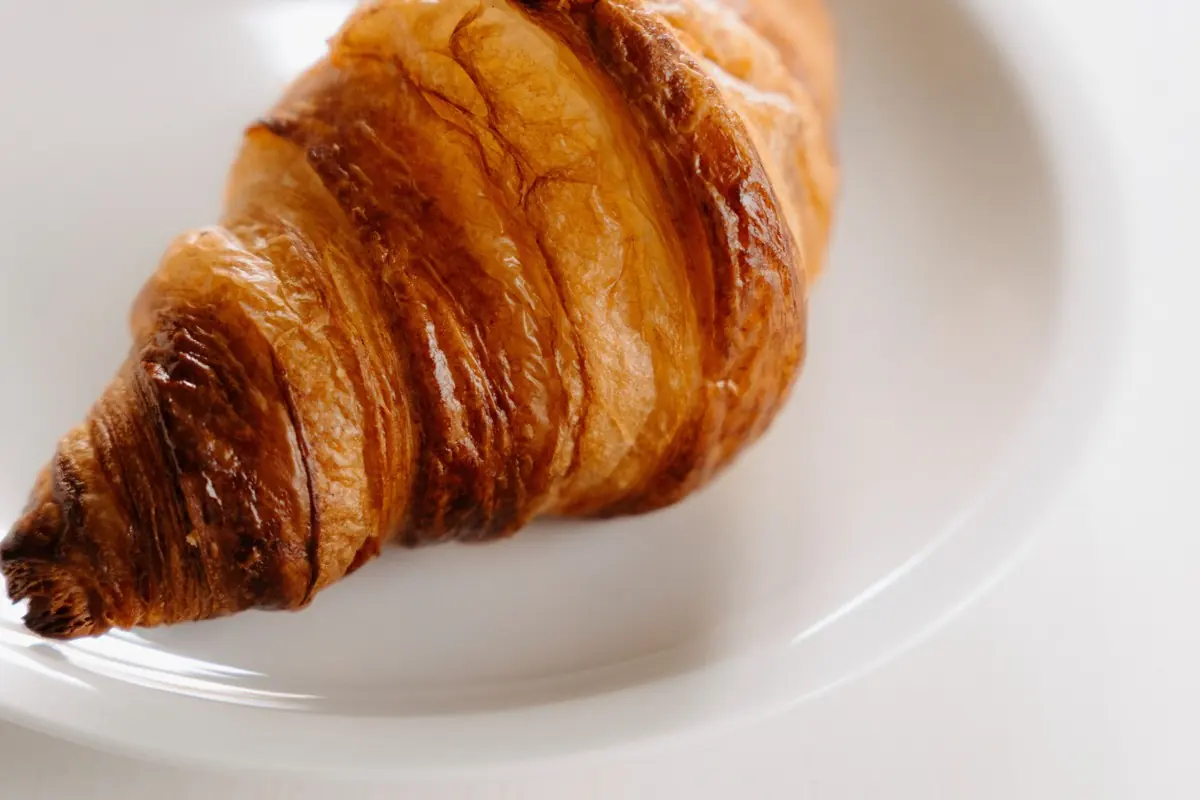
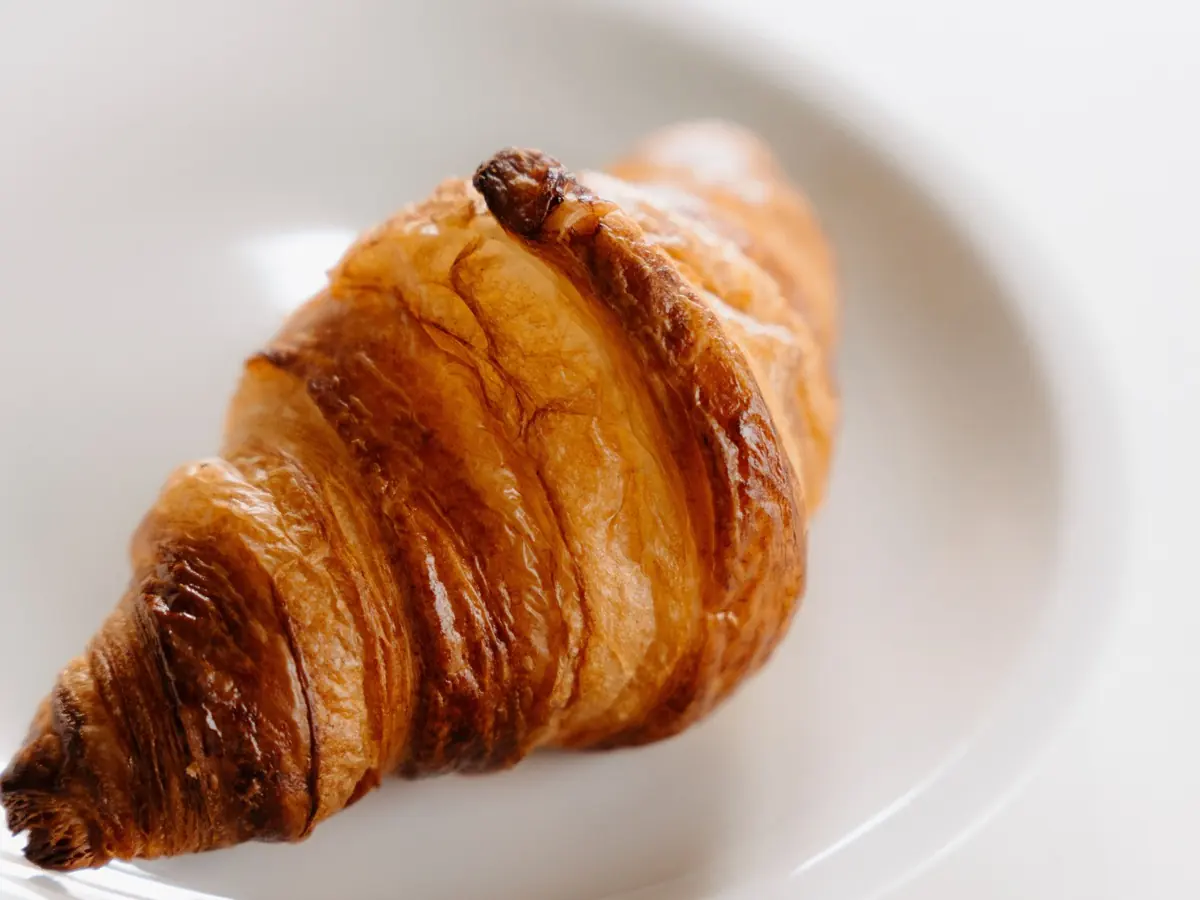
Recrop the cinnamon and croissant photos and correct the muffin alt text.
No plain cornmeal English muffin photo was available, so the sandwich picture stays and the alt text names the egg, bacon, and cheese. The cinnamon crop shows the whole front swirl, and the croissant crop keeps the top in frame.

diff --git a/dist/en/croissants-bakers-percentage/index.html b/dist/en/croissants-bakers-percentage/index.html
@@ -68,7 +68,7 @@
 <p>The calculator opens at 500 g flour, 52% hydration, 2% salt, and 1% yeast. The balls fields open at 8 pieces of about 97 g. That weight is this dough, before the butter. Roll in a 250 g butter block, about half the flour weight. Brush with 1 beaten egg. The butter and the egg are extra and are not in the gram total. These times assume you only change the flour amount and keep the percentages the same. Still judge the dough by how it looks and feels.</p>
 <ol><li><strong>Mix</strong> Stir the flour, water, salt, and yeast, then knead for about 4 minutes until smooth. At 52% the dough is firm. Keep it cool, about 20°C (68°F).</li><li><strong>Chill</strong> Wrap the dough and chill it for 45 minutes. It should be cold but still bend without cracking.</li><li><strong>Butter</strong> Pound 250 g of butter into a square about 15 cm across, cool but pliable, about 15°C (59°F). Roll the dough, lock the butter in the center, and seal the edges. The butter is extra and is not in the gram total.</li><li><strong>Folds</strong> Roll it to a long rectangle and fold it in three. Chill 25 minutes. Repeat that letter fold two more times, with 25 minutes in the fridge between folds.</li><li><strong>Shape</strong> Roll the dough to about 4 mm thick. Cut eight triangles and roll each one into a crescent, with the tip tucked under. Each piece of the original dough was about 97 g before the butter went in.</li><li><strong>Proof</strong> Cover them at about 24°C (75°F) for 2 to 2.5 hours, until they jiggle and the layers look swollen. Brush with 1 beaten egg. The egg is extra.</li><li><strong>Bake</strong> Heat the oven to 200°C (390°F). Bake 16 to 20 minutes, until they are deep gold and the layers have set.</li><li><strong>Cool</strong> Move them to a rack for at least 20 minutes. The inside is still soft right out of the oven.</li></ol>
 <figure>
-<img src="/assets/croissant.webp" width="1200" height="800" alt="One glossy laminated croissant on a white plate." loading="lazy">
+<img src="/assets/croissant.webp" width="1200" height="900" alt="One glossy laminated croissant on a white plate." loading="lazy">
 <figcaption>Photo by Mathias Reding on <a href="https://www.pexels.com/photo/golden-croissant-on-white-plate-minimalist-food-photography-30110688/">Pexels</a></figcaption>
 </figure>
 </section>

diff --git a/dist/zh-cn/kesong/index.html b/dist/zh-cn/kesong/index.html
@@ -68,7 +68,7 @@
 <p>计算器打开时是面粉 500 克，水合 52%，盐 2%，酵母 1%。面团球那一栏打开是 8 个、每个大约 97 克。这个重量只算面团，还没算黄油。再卷进 250 克黄油块，大约是面粉重量的一半。表面刷 1 个打散的鸡蛋。黄油和鸡蛋是另外加的，不在合计克数里。下面的时间按只改面粉的量、百分比不变来估。发酵还是看面团的样子和手感。</p>
 <ol><li><strong>搅拌</strong> 把面粉、水、盐和酵母拌匀，再揉大约 4 分钟，直到光滑。水合 52%，面团偏硬。保持凉快，大约 20°C。</li><li><strong>冷藏</strong> 包好，冷藏 45 分钟。要凉，但压一压不会裂开。</li><li><strong>包黄油</strong> 250 克黄油压成大约 15 厘米的方片，凉，但压下去不会裂，大约 15°C。把面团擀开，黄油包在中间，捏住边。黄油是另外加的，不在合计克数里。</li><li><strong>折叠</strong> 擀成长方形，折成三折。冷藏 25 分钟。再这样三折两次，每次中间冷藏 25 分钟。</li><li><strong>整形</strong> 擀到大约 0.4 厘米厚。切成八个三角形，卷成可颂，接口压在下面。包黄油之前，每份面团大约 97 克。</li><li><strong>最后发酵</strong> 盖着，放在大约 24°C，2 到 2.5 小时，发到晃一晃会颤、层次鼓起来。刷 1 个打散的鸡蛋。鸡蛋是另外加的。</li><li><strong>烘烤</strong> 烤箱 200°C，烤 16 到 20 分钟，直到深金黄、层次定住。</li><li><strong>放凉</strong> 移到架子上至少 20 分钟。出炉的时候里面还是软的。</li></ol>
 <figure>
-<img src="/assets/croissant.webp" width="1200" height="800" alt="一个油亮的可颂，能看见层次，放在白色盘子上。" loading="lazy">
+<img src="/assets/croissant.webp" width="1200" height="900" alt="一个油亮的可颂，能看见层次，放在白色盘子上。" loading="lazy">
 <figcaption>摄影：Mathias Reding，来自 <a href="https://www.pexels.com/photo/golden-croissant-on-white-plate-minimalist-food-photography-30110688/">Pexels</a></figcaption>
 </figure>
 </section>

diff --git a/dist/zh-tw/kesong/index.html b/dist/zh-tw/kesong/index.html
@@ -68,7 +68,7 @@
 <p>計算器打開時是麵粉 500 克，水合 52%，鹽 2%，酵母 1%。麵團球那一欄打開是 8 個、每個大約 97 克。這個重量只算麵團，還沒算奶油。再捲進 250 克奶油塊，大約是麵粉重量的一半。表面刷 1 個打散的雞蛋。奶油和雞蛋是另外加的，不在合計克數裡。下面的時間按只改麵粉的量、百分比不變來估。發酵還是看麵團的樣子和手感。</p>
 <ol><li><strong>攪拌</strong> 把麵粉、水、鹽和酵母拌勻，再揉大約 4 分鐘，直到光滑。水合 52%，麵團偏硬。保持涼快，大約 20°C。</li><li><strong>冷藏</strong> 包好，冷藏 45 分鐘。要涼，但壓一壓不會裂開。</li><li><strong>包奶油</strong> 250 克奶油壓成大約 15 公分的方片，涼，但壓下去不會裂，大約 15°C。把麵團擀開，奶油包在中間，捏住邊。奶油是另外加的，不在合計克數裡。</li><li><strong>摺疊</strong> 擀成長方形，折成三折。冷藏 25 分鐘。再這樣三折兩次，每次中間冷藏 25 分鐘。</li><li><strong>整形</strong> 擀到大約 0.4 公分厚。切成八個三角形，捲成可頌，接口壓在下面。包奶油之前，每份麵團大約 97 克。</li><li><strong>最後發酵</strong> 蓋著，放在大約 24°C，2 到 2.5 小時，發到晃一晃會顫、層次鼓起來。刷 1 個打散的雞蛋。雞蛋是另外加的。</li><li><strong>烘烤</strong> 烤箱 200°C，烤 16 到 20 分鐘，直到深金黃、層次定住。</li><li><strong>放涼</strong> 移到架子上至少 20 分鐘。出爐的時候裡面還是軟的。</li></ol>
 <figure>
-<img src="/assets/croissant.webp" width="1200" height="800" alt="一個油亮的可頌，能看見層次，放在白色盤子上。" loading="lazy">
+<img src="/assets/croissant.webp" width="1200" height="900" alt="一個油亮的可頌，能看見層次，放在白色盤子上。" loading="lazy">
 <figcaption>攝影：Mathias Reding，來自 <a href="https://www.pexels.com/photo/golden-croissant-on-white-plate-minimalist-food-photography-30110688/">Pexels</a></figcaption>
 </figure>
 </section>

diff --git a/dist/en/english-muffins-bakers-percentage/index.html b/dist/en/english-muffins-bakers-percentage/index.html
@@ -68,7 +68,7 @@
 <p>The calculator opens at 400 g flour, 62% hydration, 1.5% salt, and 0.7% yeast. The balls fields open at 8 muffins of about 82 g each. Dust them and the pan with about 20 g of cornmeal. The cornmeal is extra and is not in the gram total. These times assume you only change the flour amount and keep the percentages the same. Still judge the dough by how it looks and feels.</p>
 <ol><li><strong>Mix</strong> Stir the flour, water, salt, and yeast, then knead for 6 to 8 minutes until smooth. At 62% it is soft but not sticky. Aim for about 24°C (75°F).</li><li><strong>Bulk</strong> Cover the bowl at about 24°C (75°F) for 75 to 100 minutes. Yeast is only 0.7%, so wait until it has nearly doubled.</li><li><strong>Divide</strong> Cut eight pieces of about 82 g. Round each one and rest them, covered, for 10 minutes.</li><li><strong>Flatten</strong> Press each round to about 9 cm across and about 2 cm thick. Dust both sides with cornmeal. Use about 20 g for the batch. That cornmeal is extra.</li><li><strong>Proof</strong> Set them on a cornmeal-dusted tray. Cover them at about 24°C (75°F) for 20 to 30 minutes, until they look puffy.</li><li><strong>Griddle</strong> Heat a covered pan over medium heat, about 170°C (340°F) if the pan shows a temperature. Cook 6 to 8 minutes per side with the lid on, until the sides are set and both faces are browned in spots.</li><li><strong>Cool</strong> Move them to a rack. Split them with a fork once they are cool if you want the rough inside.</li></ol>
 <figure>
-<img src="/assets/english-muffins.webp" width="1200" height="900" alt="A round, flat English muffin dusted with cornmeal, split, with both halves in the frame." loading="lazy">
+<img src="/assets/english-muffins.webp" width="1200" height="900" alt="An English muffin dusted with cornmeal, split and filled with egg, bacon and cheese, on a wooden tray." loading="lazy">
 <figcaption>Photo by Su La Pyae on <a href="https://www.pexels.com/photo/english-muffin-on-cutting-board-19471374/">Pexels</a></figcaption>
 </figure>
 </section>

diff --git a/dist/en/cinnamon-roll-dough-bakers-percentage/index.html b/dist/en/cinnamon-roll-dough-bakers-percentage/index.html
@@ -68,7 +68,7 @@
 <p>The calculator opens at 500 g flour, 58% hydration, 1.6% salt, and 1.4% yeast. The balls fields open at 8 rolls of about 101 g each. The filling is about 50 g soft butter, 80 g sugar, and 8 g cinnamon. That filling is extra and is not in the gram total. These times assume you only change the flour amount and keep the percentages the same. Still judge the dough by how it looks and feels.</p>
 <ol><li><strong>Mix</strong> Stir the flour, water, salt, and yeast, then knead for about 8 minutes until smooth. At 58% it is soft. Aim for about 24°C (75°F).</li><li><strong>Bulk</strong> Cover the bowl at about 24°C (75°F) for 70 to 90 minutes. With 1.4% yeast it should nearly double.</li><li><strong>Fill</strong> Roll the dough to a rectangle about 30 by 40 cm. Spread 50 g soft butter, then 80 g sugar mixed with 8 g cinnamon. Those amounts are extra.</li><li><strong>Cut</strong> Roll the sheet up from a long side and pinch the seam. Cut eight pieces of about 101 g. Set them cut side up in a buttered pan, with a small gap between them.</li><li><strong>Proof</strong> Cover the pan at about 24°C (75°F) for 35 to 50 minutes, until the rolls are puffy and touching.</li><li><strong>Bake</strong> Heat the oven to 180°C (355°F). Bake 22 to 26 minutes, until the tops are golden, the sugar on the filling has browned, and the centers are set.</li><li><strong>Cool</strong> Leave them in the pan for about 15 minutes, then lift them out.</li></ol>
 <figure>
-<img src="/assets/cinnamon-rolls.webp" width="1200" height="926" alt="Cinnamon rolls baked close together, with the swirl and cinnamon sugar showing on top." loading="lazy">
+<img src="/assets/cinnamon-rolls.webp" width="1200" height="1060" alt="Cinnamon rolls on parchment, the front one showing the full swirl and cinnamon sugar." loading="lazy">
 <figcaption>Photo by Danique Veldhuis on <a href="https://www.pexels.com/photo/delicious-cinnamon-rolls-20449473/">Pexels</a></figcaption>
 </figure>
 </section>

diff --git a/dist/zh-cn/yingshi-mafen/index.html b/dist/zh-cn/yingshi-mafen/index.html
@@ -68,7 +68,7 @@
 <p>计算器打开时是面粉 400 克，水合 62%，盐 1.5%，酵母 0.7%。面团球那一栏打开是 8 个、每个大约 82 克。饼和锅上撒大约 20 克玉米粉。玉米粉是另外加的，不在合计克数里。下面的时间按只改面粉的量、百分比不变来估。发酵还是看面团的样子和手感。</p>
 <ol><li><strong>搅拌</strong> 把面粉、水、盐和酵母拌匀，再揉 6 到 8 分钟，直到光滑。水合 62%，柔软但不黏手。面团温度大约 24°C。</li><li><strong>基本发酵</strong> 盖着，放在大约 24°C，75 到 100 分钟。酵母只有 0.7%，等到差不多发到两倍。</li><li><strong>分割</strong> 分成八份，每份大约 82 克。收圆，盖上放 10 分钟。</li><li><strong>压平</strong> 每个压到大约 9 厘米宽、大约 2 厘米厚。两面都撒玉米粉。这一批大约用 20 克。这些玉米粉是另外加的。</li><li><strong>最后发酵</strong> 放在撒了玉米粉的盘子上。盖着，大约 24°C，20 到 30 分钟，发到蓬松。</li><li><strong>平底锅</strong> 盖上盖，用中等热度的平底锅，大约 170°C。每面加热 6 到 8 分钟，直到侧面定住、两面都上了色。</li><li><strong>放凉</strong> 移到架子上。凉了以后想看里面，就从侧面切开。</li></ol>
 <figure>
-<img src="/assets/english-muffins.webp" width="1200" height="900" alt="一个圆而扁的英式马芬，表面有玉米粉，上下两半都在画面里。" loading="lazy">
+<img src="/assets/english-muffins.webp" width="1200" height="900" alt="一个英式马芬，表面有玉米粉，切开，里面是蛋、培根和奶酪，放在木盘上。" loading="lazy">
 <figcaption>摄影：Su La Pyae，来自 <a href="https://www.pexels.com/photo/english-muffin-on-cutting-board-19471374/">Pexels</a></figcaption>
 </figure>
 </section>

diff --git a/dist/zh-tw/yingshi-mafen/index.html b/dist/zh-tw/yingshi-mafen/index.html
@@ -68,7 +68,7 @@
 <p>計算器打開時是麵粉 400 克，水合 62%，鹽 1.5%，酵母 0.7%。麵團球那一欄打開是 8 個、每個大約 82 克。餅和鍋上撒大約 20 克玉米粉。玉米粉是另外加的，不在合計克數裡。下面的時間按只改麵粉的量、百分比不變來估。發酵還是看麵團的樣子和手感。</p>
 <ol><li><strong>攪拌</strong> 把麵粉、水、鹽和酵母拌勻，再揉 6 到 8 分鐘，直到光滑。水合 62%，柔軟但不黏手。麵團溫度大約 24°C。</li><li><strong>基本發酵</strong> 蓋著，放在大約 24°C，75 到 100 分鐘。酵母只有 0.7%，等到差不多發到兩倍。</li><li><strong>分割</strong> 分成八份，每份大約 82 克。收圓，蓋上放 10 分鐘。</li><li><strong>壓平</strong> 每個壓到大約 9 公分寬、大約 2 公分厚。兩面都撒玉米粉。這一批大約用 20 克。這些玉米粉是另外加的。</li><li><strong>最後發酵</strong> 放在撒了玉米粉的盤子上。蓋著，大約 24°C，20 到 30 分鐘，發到蓬鬆。</li><li><strong>平底鍋</strong> 蓋上蓋，用中等熱度的平底鍋，大約 170°C。每面加熱 6 到 8 分鐘，直到側面定住、兩面都上了色。</li><li><strong>放涼</strong> 移到架子上。涼了以後想看裡面，就從側面切開。</li></ol>
 <figure>
-<img src="/assets/english-muffins.webp" width="1200" height="900" alt="一個圓而扁的英式瑪芬，表面有玉米粉，上下兩半都在畫面裡。" loading="lazy">
+<img src="/assets/english-muffins.webp" width="1200" height="900" alt="一個英式瑪芬，表面有玉米粉，切開，裡面是蛋、培根和乳酪，放在木盤上。" loading="lazy">
 <figcaption>攝影：Su La Pyae，來自 <a href="https://www.pexels.com/photo/english-muffin-on-cutting-board-19471374/">Pexels</a></figcaption>
 </figure>
 </section>

diff --git a/dist/zh-cn/rougui-juan/index.html b/dist/zh-cn/rougui-juan/index.html
@@ -68,7 +68,7 @@
 <p>计算器打开时是面粉 500 克，水合 58%，盐 1.6%，酵母 1.4%。面团球那一栏打开是 8 个、每个大约 101 克。馅大约是 50 克软黄油、80 克糖、8 克肉桂。馅是另外加的，不在合计克数里。下面的时间按只改面粉的量、百分比不变来估。发酵还是看面团的样子和手感。</p>
 <ol><li><strong>搅拌</strong> 把面粉、水、盐和酵母拌匀，再揉大约 8 分钟，直到光滑。水合 58%，面团柔软。面团温度大约 24°C。</li><li><strong>基本发酵</strong> 盖着，放在大约 24°C，70 到 90 分钟。酵母有 1.4%，差不多发到两倍。</li><li><strong>铺馅</strong> 擀成大约 40 厘米长、30 厘米宽的长方形。抹上 50 克软黄油，再撒 80 克糖和 8 克肉桂拌好的粉。这些重量是另外加的。</li><li><strong>切块</strong> 从长边卷紧，捏住接缝。切成八份，每份大约 101 克。切面朝上，放进抹了黄油的烤盘，中间留一条小缝。</li><li><strong>最后发酵</strong> 盖着，放在大约 24°C，35 到 50 分钟，发到蓬松、彼此碰上。</li><li><strong>烘烤</strong> 烤箱 180°C，烤 22 到 26 分钟，直到顶上金黄、馅上的糖上色、中间定住。</li><li><strong>放凉</strong> 在盘里停大约 15 分钟，再取出来。</li></ol>
 <figure>
-<img src="/assets/cinnamon-rolls.webp" width="1200" height="926" alt="肉桂卷紧挨着烤在一起，顶上能看见螺旋和肉桂糖。" loading="lazy">
+<img src="/assets/cinnamon-rolls.webp" width="1200" height="1060" alt="烤盘纸上的肉桂卷，前面那个能看见完整的圈和肉桂糖。" loading="lazy">
 <figcaption>摄影：Danique Veldhuis，来自 <a href="https://www.pexels.com/photo/delicious-cinnamon-rolls-20449473/">Pexels</a></figcaption>
 </figure>
 </section>

diff --git a/dist/zh-tw/rougui-juan/index.html b/dist/zh-tw/rougui-juan/index.html
@@ -68,7 +68,7 @@
 <p>計算器打開時是麵粉 500 克，水合 58%，鹽 1.6%，酵母 1.4%。麵團球那一欄打開是 8 個、每個大約 101 克。餡大約是 50 克軟奶油、80 克糖、8 克肉桂。餡是另外加的，不在合計克數裡。下面的時間按只改麵粉的量、百分比不變來估。發酵還是看麵團的樣子和手感。</p>
 <ol><li><strong>攪拌</strong> 把麵粉、水、鹽和酵母拌勻，再揉大約 8 分鐘，直到光滑。水合 58%，麵團柔軟。麵團溫度大約 24°C。</li><li><strong>基本發酵</strong> 蓋著，放在大約 24°C，70 到 90 分鐘。酵母有 1.4%，差不多發到兩倍。</li><li><strong>鋪餡</strong> 擀成大約 40 公分長、30 公分寬的長方形。抹上 50 克軟奶油，再撒 80 克糖和 8 克肉桂拌好的粉。這些重量是另外加的。</li><li><strong>切塊</strong> 從長邊捲緊，捏住接縫。切成八份，每份大約 101 克。切面朝上，放進抹了奶油的烤盤，中間留一條小縫。</li><li><strong>最後發酵</strong> 蓋著，放在大約 24°C，35 到 50 分鐘，發到蓬鬆、彼此碰上。</li><li><strong>烘烤</strong> 烤箱 180°C，烤 22 到 26 分鐘，直到頂上金黃、餡上的糖上色、中間定住。</li><li><strong>放涼</strong> 在盤裡停大約 15 分鐘，再取出來。</li></ol>
 <figure>
-<img src="/assets/cinnamon-rolls.webp" width="1200" height="926" alt="肉桂捲緊挨著烤在一起，頂上能看見螺旋和肉桂糖。" loading="lazy">
+<img src="/assets/cinnamon-rolls.webp" width="1200" height="1060" alt="烤盤紙上的肉桂捲，前面那個能看見完整的圈和肉桂糖。" loading="lazy">
 <figcaption>攝影：Danique Veldhuis，來自 <a href="https://www.pexels.com/photo/delicious-cinnamon-rolls-20449473/">Pexels</a></figcaption>
 </figure>
 </section>
